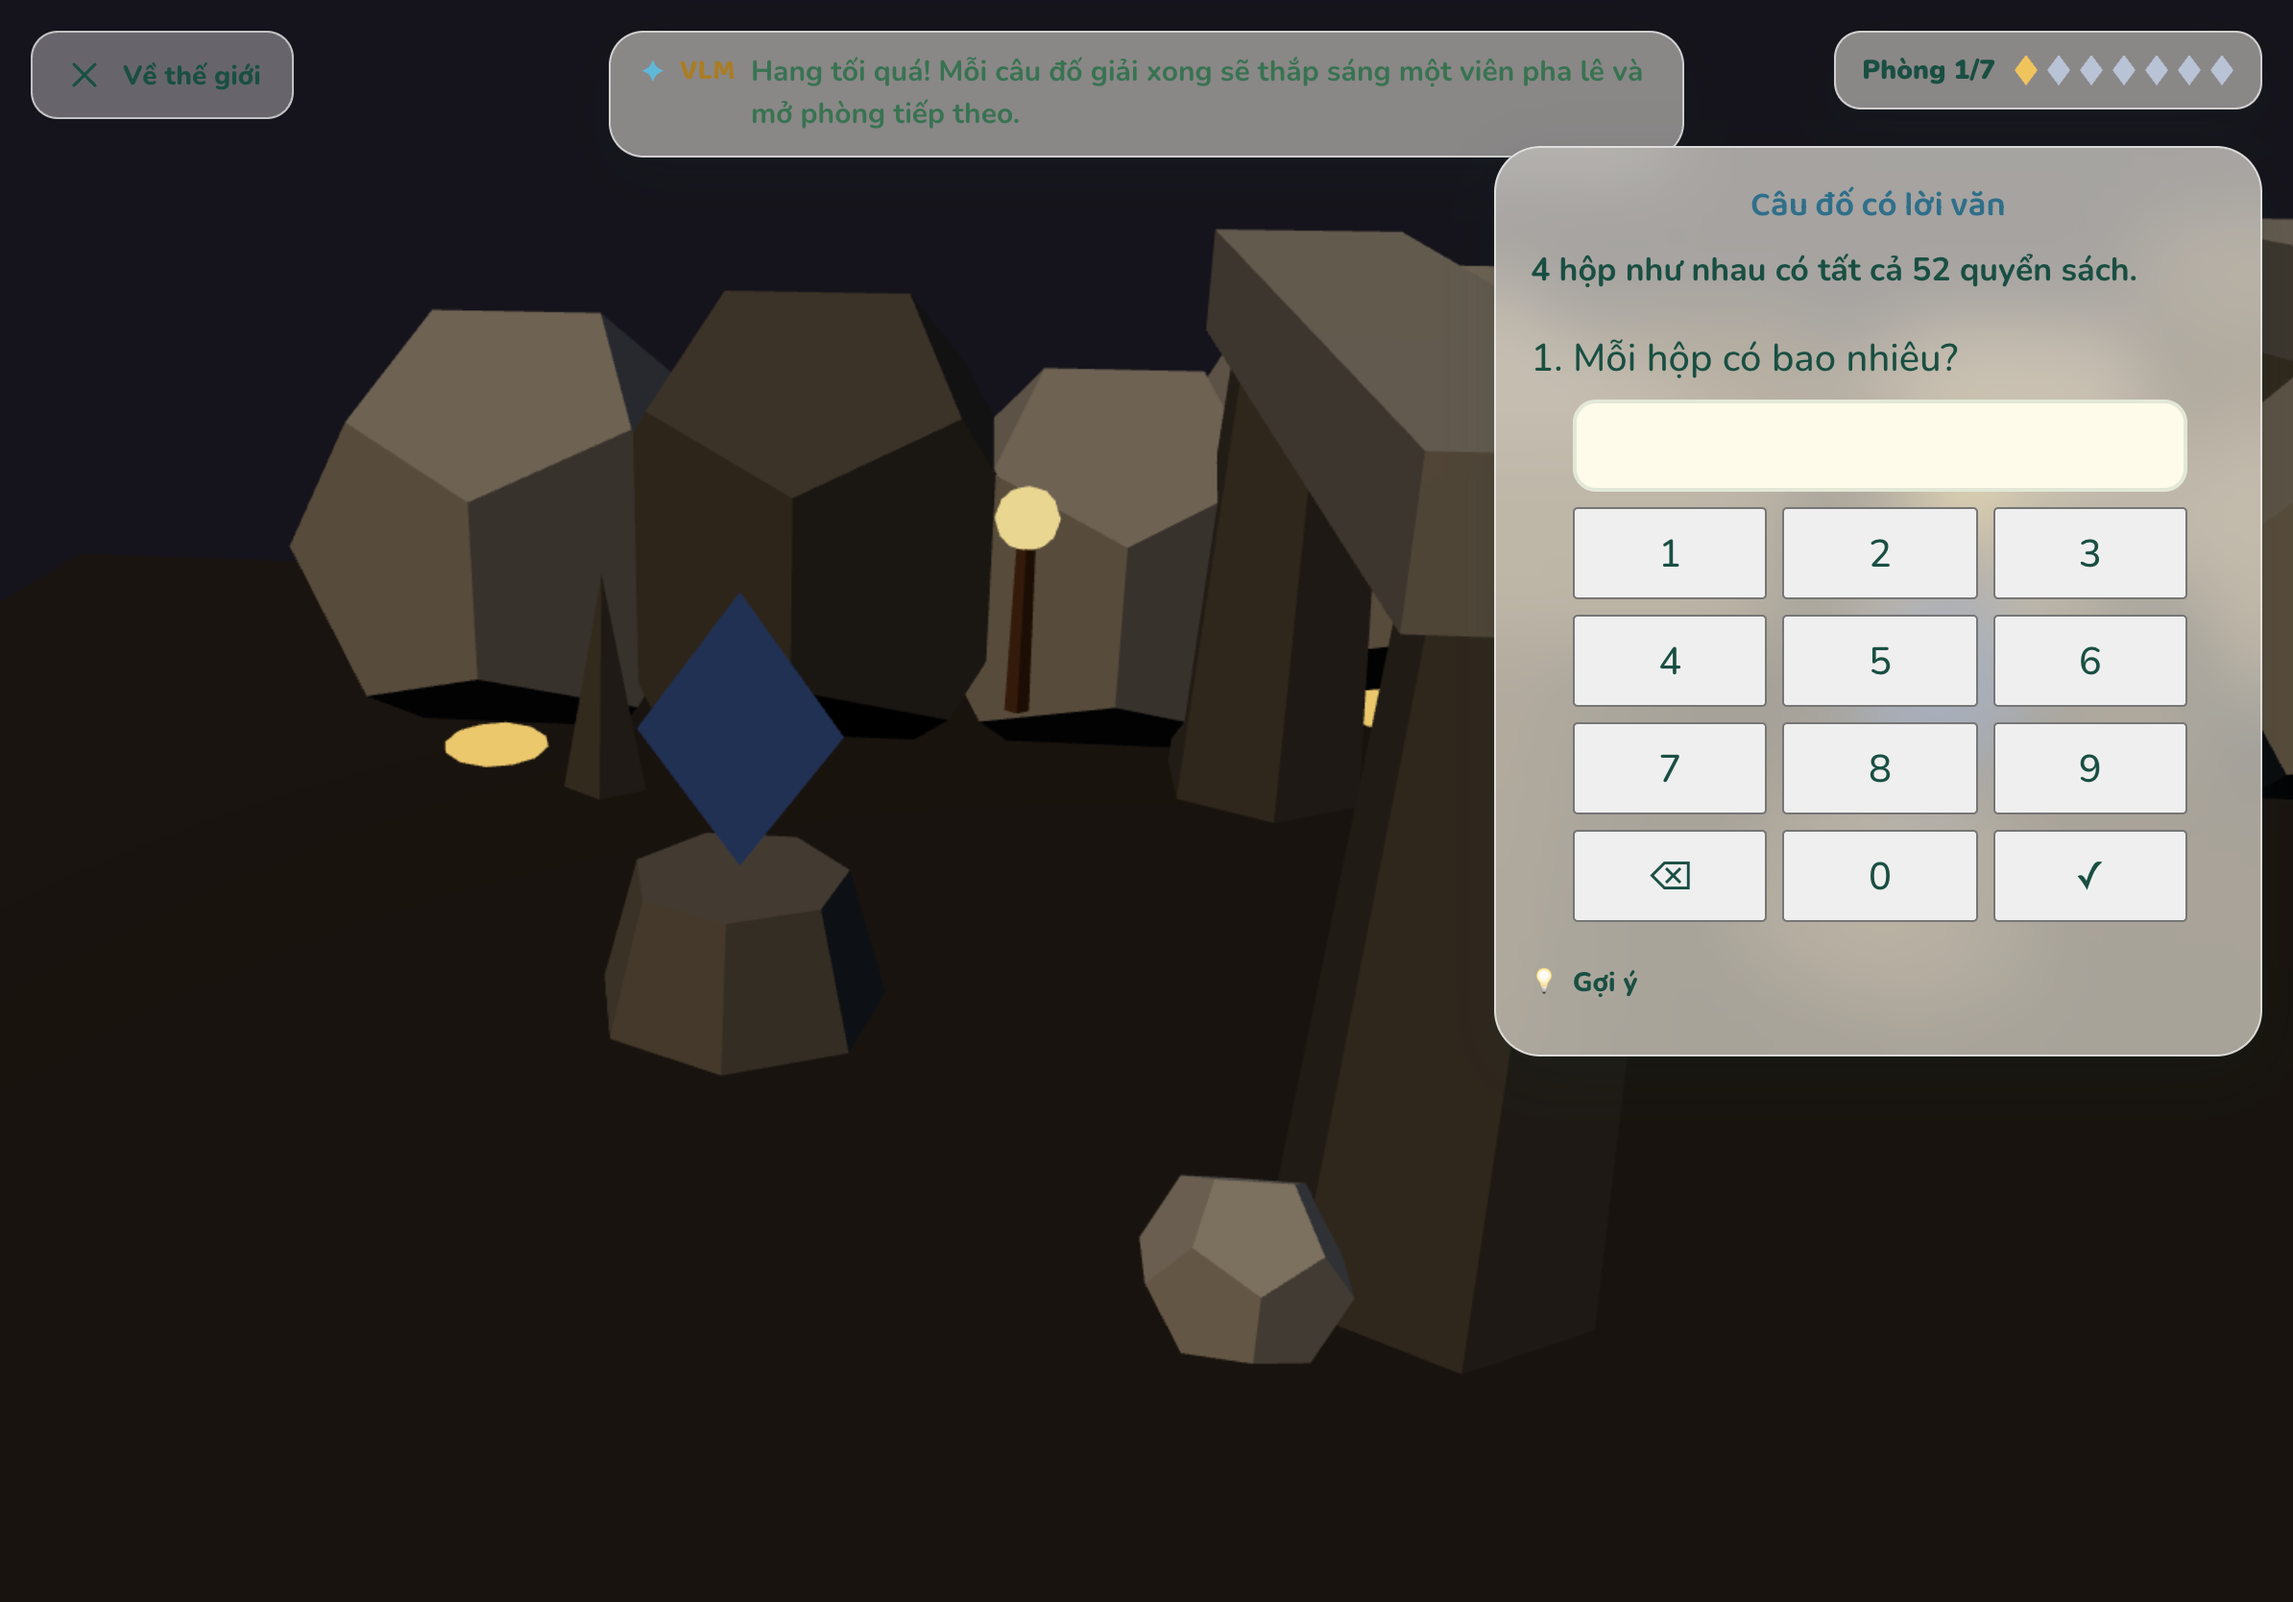
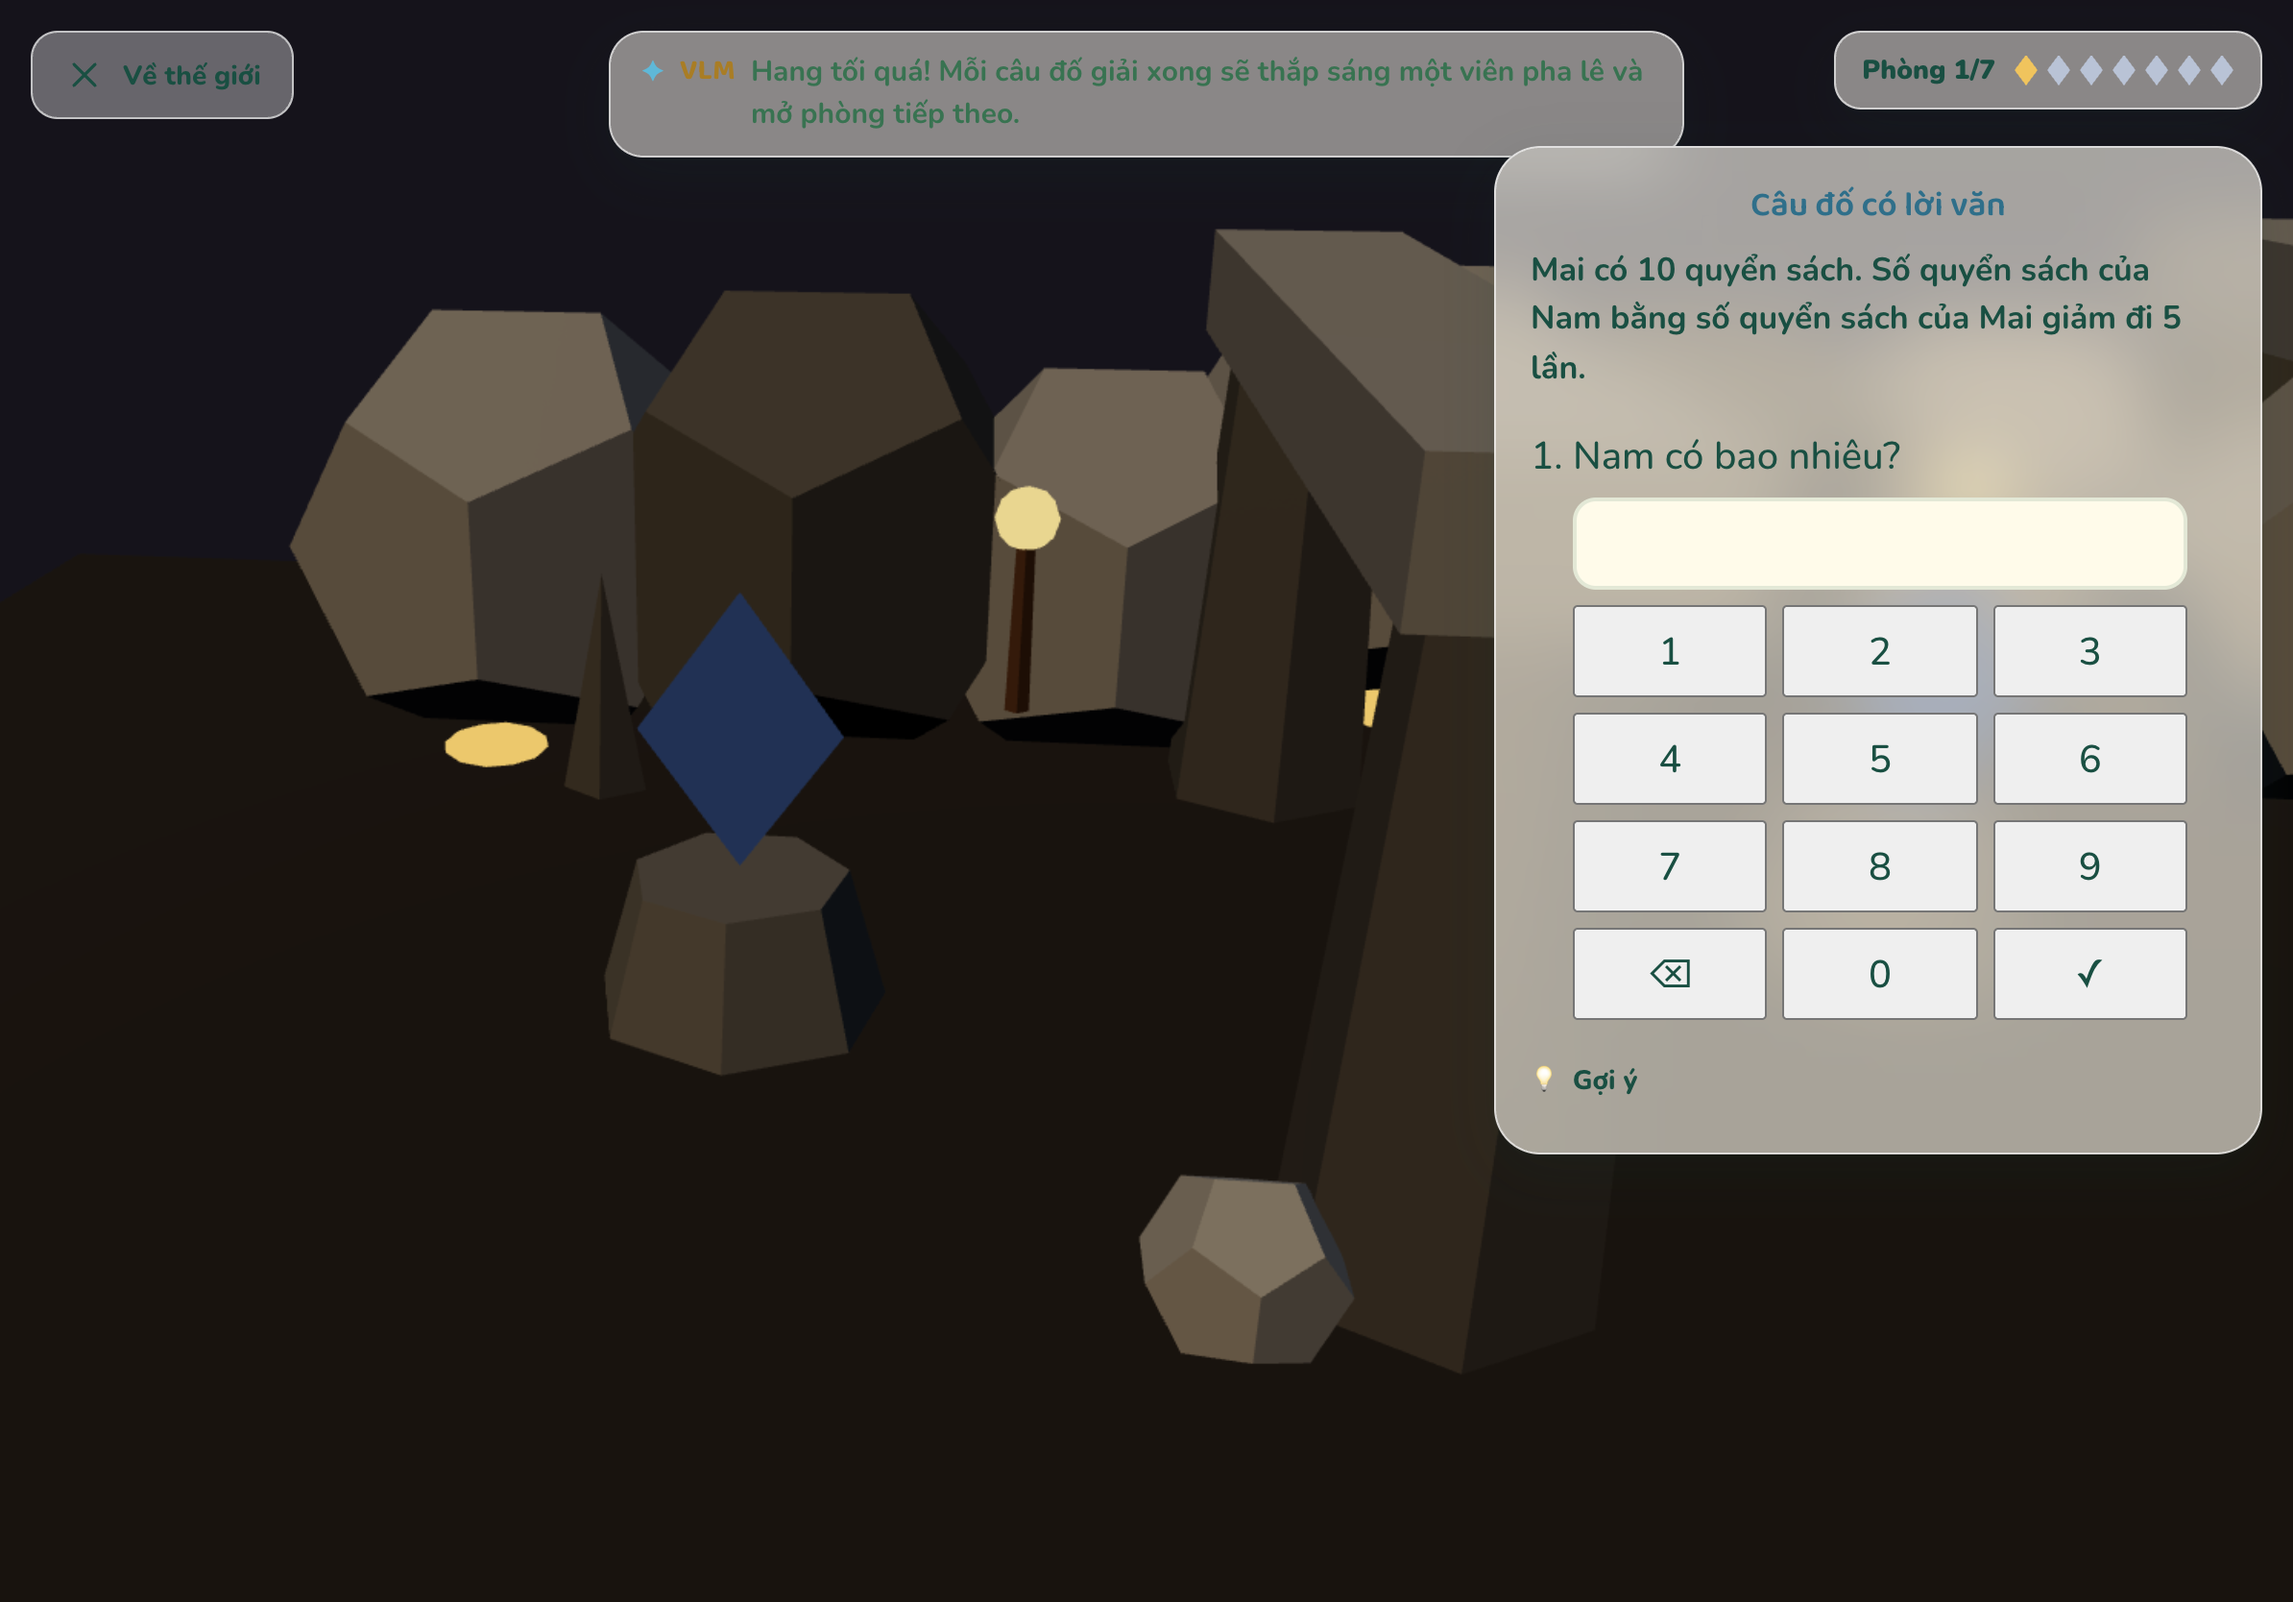
docs: phase 08 cave screenshots and measured draw calls

Changed region(s): [[0.6508, 0.1559, 0.9606, 0.4676], [0.6508, 0.4988, 0.9916, 0.7482]]

diff --git a/plans/261031-1933-reasoning-geometry-and-map-expansion/phase-08-puzzle-cave-level.md b/plans/261031-1933-reasoning-geometry-and-map-expansion/phase-08-puzzle-cave-level.md
@@ -79,6 +79,6 @@ tests/e2e/cave-level.spec.ts  cave-level-leak.spec.ts
 - Planning: planner picks → seen skills weakest first → fresh; one of each required format (word, remainder, choose-all, tf-explain, geo-meas), top-up ≤2 per format, sorted weakest box first, then reordered only where needed so no format repeats (feasibility-checked greedy).
 - Chambers use the kit step card with the family's renderer (reasoning/geometry/measurement); the round flow re-checks every answer with `isStepAnswerCorrect`, so verdict + fix and choose-all (all and only) are one recorded question. Expression = generator's own steps (choice of value / first part + pad by tier).
 - Hints: 3 taught rungs (button spent after rung 3); rung 3 works the first calculation from the story/statement numbers with "?" (circle: "r + r", "nửa của d" so no literal 2 leaks); choose-all names one false sentence. Sweep test: every skill × tier × 25 seeds × step × rung.
-- Draw calls: rock (1) + glow (1) + crystals (1) + chest (2) — see report for the measured max.
+- Draw calls: rock (1) + glow (1) + crystals (1) + chest (2) — measured max 3 (desktop), 5 (phone) of the 60 budget.
 - Shared file touched: `tests/e2e/chapter2-gates-and-regions.spec.ts` (`SHIPPED` list: a shipped level's gate is `open`, not "Sắp ra mắt"). Phases 05–07 add their ids there.
 - Screenshots: `reports/p08-screens/` (chamber 1, multi-select, explain fix step, celebration, closing card per project).
